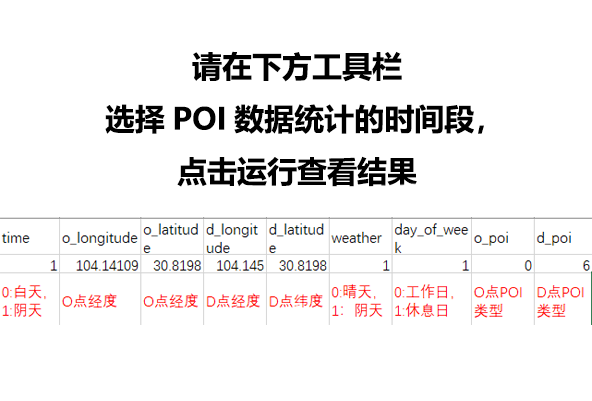
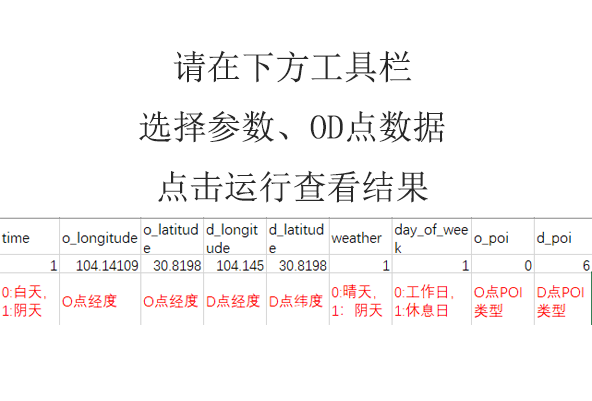
修改部分页面显示效果

Changed region(s): [[0.1824, 0.2394, 0.8209, 0.3591], [0.2736, 0.389, 0.7297, 0.5087], [0.2736, 0.1197, 0.6993, 0.2095]]

diff --git a/rhythm/templates/rhythm/index_others.html b/rhythm/templates/rhythm/index_others.html
@@ -91,12 +91,14 @@
   </div>
   
   <!--解释-->
+<!--
   <div class="select_time none">
     <div class="static_top left"> <i></i><span>分时段目的地划分</span> </div>
   </div>
+-->
   <!--分时段目的地划分图-->
-  <div class="div_chart"> 
-    <!--  <div class="margin_div_chart_item left div_chart_item">-->
+  <!--<div class="div_chart"> 
+      <div class="margin_div_chart_item left div_chart_item">
     <div class="div_chart_item01">
       <div class="div_any_title"><img src="{% static 'rhythm/img/title_1.png' %}">分时段目的地划分图 </div>
       <p id="chart_2" class="p_chart"><img id="image_chart3" class="images" src="{% static 'rhythm/img/instruction_pie.png' %}"></p>
@@ -137,17 +139,16 @@
         </ul>
       </div>
     </form>
-    <!--  </div>--> 
   </div>
+-->
   
-  <!-标签-->
   <div class="select_time">
-    <div class="static_top left"> <i></i><span>poi整体概率分布</span> </div>
+    <div class="static_top left"> <i></i><span>用户整体出行意图</span> </div>
   </div>
   <div class="div_chart"> 
     <!--  <div class="margin_div_chart_item left div_chart_item">-->
     <div class="div_chart_item01">
-      <div class="div_any_title"><img src="{% static 'rhythm/img/title_1.png' %}">POI大类热度统计 </div>
+      <div class="div_any_title"><img src="{% static 'rhythm/img/title_1.png' %}">用户整体出行意图概率分布 </div>
       <p id="chart_3" class="p_chart"><img id="image_pie_01" class="images" src="{% static 'rhythm/img/instruction_pie.png' %}"></p>
     </div>
     <form id="form3">
@@ -187,14 +188,14 @@
     <!--  </div>--> 
   </div>
   <div class="margin_top_60 select_time ">
-    <div class="static_top left"> <i></i><span>poi分路段概率分布</span> </div>
+    <div class="static_top left"> <i></i><span>用户分路段出行意图</span> </div>
   </div>
   
   <!--POI热度分层统计图，需求修改留存备用	-->
   <div class="div_chart">
     <div class="margin_div_chart_item left div_chart_item">
       <div class="div_chart_item01">
-        <div class="div_any_title"><img src="{% static 'rhythm/img/title_1.png' %}">POI大类热度统计 </div>
+        <div class="div_any_title"><img src="{% static 'rhythm/img/title_1.png' %}">当前城市活跃路段图 </div>
         <p id="chart_lines_1" class="p_chart"><img id="image_pie_02" class="images" src="{% static 'rhythm/img/instruction_pie.png' %}"></p>
       </div>
       <form id="form4">
@@ -234,7 +235,7 @@
     </div>
     <div class="left div_chart_item">
       <div class="div_chart_item01">
-        <div class="div_any_title"><img src="{% static 'rhythm/img/title_1.png' %}">POI细分热度统计 </div>
+        <div class="div_any_title"><img src="{% static 'rhythm/img/title_1.png' %}">用户分路段出行意图概率分布 </div>
         <p id="chart_lines_2" class="p_chart"><img id="image_lines_2" class="images" src="{% static 'rhythm/img/instruction_pie.png' %}"></p>
       </div>
     </div>

diff --git a/rhythm/templates/rhythm/index_association.html b/rhythm/templates/rhythm/index_association.html
@@ -165,7 +165,7 @@
     <!--  <div class="margin_div_chart_item left div_chart_item">-->
     <div class="div_chart_item01">
       <div class="div_any_title"><img src="{% static 'rhythm/img/title_1.png' %}">序列模式挖掘展示图 </div>
-      <p id="chart_seq" class="p_chart"> <img id="image_freq" class="images" src="{% static 'rhythm/img/instruction_fre.png' %}"> </p>
+      <p id="chart_seq" class="p_chart"> <img id="image_freq" class="images" src="{% static 'rhythm/img/instruction_seq.png' %}"> </p>
       <div class="table_showdata table_p_freq" id="table_p_seq">
         <table class="table_showdata_freq" id="seq_table1" style="width: 95%;">
           <thead>
@@ -201,21 +201,24 @@
               </li>
               <li style="float:none; width: 100%; margin-top:5px;"> 选择时间：
                 <select name="method_seq_time" id="method_seq_time"  form="form6" style="width:60px; margin-right: 50px;">
-                  <option value="0">白天</option>
+                   <option value="2">全部</option>
+					<option value="0">白天</option>
                   <option value="1">夜晚</option>
-                  <option value="2">全部</option>
+               
                 </select>
                 选择星期：
                 <select name="method_seq_week" id="method_seq_week"  form="form6" style="width:70px; margin-right: 50px;">
+					<option value="2">全部</option>
                   <option value="0">工作日</option>
                   <option value="1">休息日</option>
-                  <option value="2">全部</option>
+                  
                 </select>
                 选择天气：
                 <select name="method_seq_weather" id="method_seq_weather"  form="form5" style="width:70px; margin-right: 50px;">
-                  <option value="1">阴雨天</option>
                   <option value="2">全部</option>
-                  <option value="0">晴天</option>
+					<option value="0">晴天</option>
+					<option value="1">阴雨天</option>
+                                    
                 </select>
               </li>
             </ul>
@@ -229,7 +232,7 @@
       </div>
       <div class="div_chart_item01">
         <div class="div_any_title"><img src="{% static 'rhythm/img/title_1.png' %}">序列模式可视化 </div>
-        <p id="chart_seq_show" class="p_chart" style="width: 70% ;margin: auto; margin-top: 10px;"><img id="image_chart_freq" class="images" src="{% static 'rhythm/img/instruction_fre.png' %}"></p>
+        <p id="chart_seq_show" class="p_chart" style="width: 70% ;margin: auto; margin-top: 10px;"><img id="image_chart_freq" class="images" src="{% static 'rhythm/img/instruction_seq.png' %}"></p>
       </div>
       <div class="div_table_box_showdata">
         <div class="div_any_title"><img src="{% static 'rhythm/img/title_4.png' %}">数据展示</div>

diff --git a/rhythm/static/rhythm/js/running_ontime/data_seq_mining.js b/rhythm/static/rhythm/js/running_ontime/data_seq_mining.js
@@ -71,8 +71,7 @@ function submit_sequential_minning() {
 			//有返回值
 			console.log(result);
 			submitted = false;
-			//						console.log(result["is_seq_empty"]);
-			submitted = false;
+			//console.log(result["is_seq_empty"]);
 			if (result["is_seq_empty"] == false) {
 				$.getJSON('/static/rhythm/json/seq_encoding.json', function (seq_encoding) {
 					console.log(seq_encoding);
@@ -88,7 +87,7 @@ function submit_sequential_minning() {
 			console.log(result);
 			alert("异常！");
 			submitted = false;
-			$('#final_image').attr('src', '/static/rhythm/img/instruction_fre.png');
+			$('#final_image').attr('src', '/static/rhythm/img/instruction_seq.png');
 		}
 	});
 }
@@ -135,7 +134,7 @@ function handle_seq(result, formDat, seq_encoding) {
 		var front_name = front.road_names;
 		var fstr = "<td>";
 		for (var j = 0; j < front.count; j++) {
-			fstr = fstr + front_name[j] + "  ";
+			fstr = fstr + front_name[j] +"("+front.seq_set[j] + ")  ";
 		}
 		fstr += "</td>";
 		trf.append(fstr);
@@ -143,7 +142,7 @@ function handle_seq(result, formDat, seq_encoding) {
 		var back_name = back.road_names;
 		var bstr = "<td>";
 		for (var j = 0; j < back.count; j++) {
-			bstr = bstr + back_name[j] + "  ";
+			bstr = bstr + back_name[j] + "("+back.seq_set[j] + ")  ";
 		}
 		bstr += "</td>";
 		trf.append(bstr);
@@ -158,6 +157,7 @@ function handle_seq_data(seqset, seq_encoding) {
 	var l = seqset.length;
 	var road_names = [];
 	var road_coords = [];
+	var seq_set = [];
 	var road_length = [];
 	var ans;
 	var count = 0;
@@ -172,10 +172,15 @@ function handle_seq_data(seqset, seq_encoding) {
 				road_names[count] = tmp["road_name"];
 			}
 			road_coords[count] = tmp.road_coords;
+			seq_set[count] = seqset[i].toString();
 			road_length[count] = tmp.road_length;
 			count++;
 		} else {
-			continue;
+			//阐述空包含空字符串的键
+			return {
+				"flag": false
+			};
+//			continue;
 		}
 	}
 	if (count == 0) {
@@ -188,6 +193,7 @@ function handle_seq_data(seqset, seq_encoding) {
 		"road_names": road_names,
 		"road_coords": road_coords,
 		"road_length": road_length,
+		"seq_set": seq_set,
 		"count": count
 	};
 }
